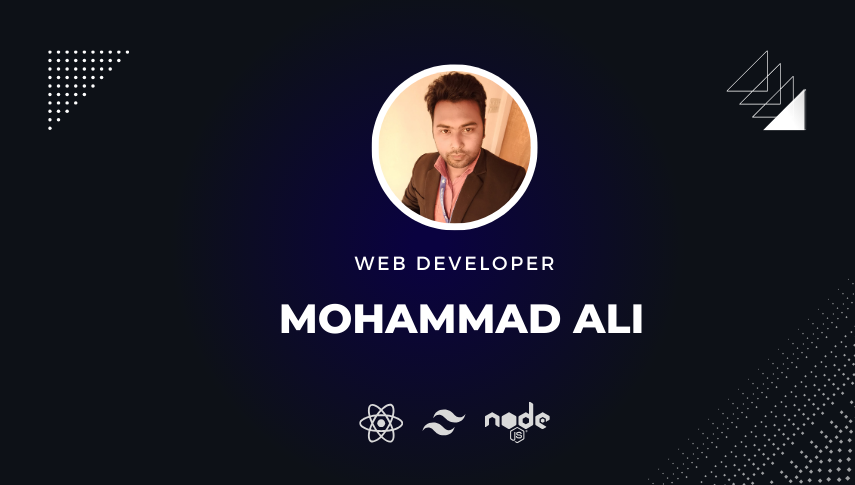
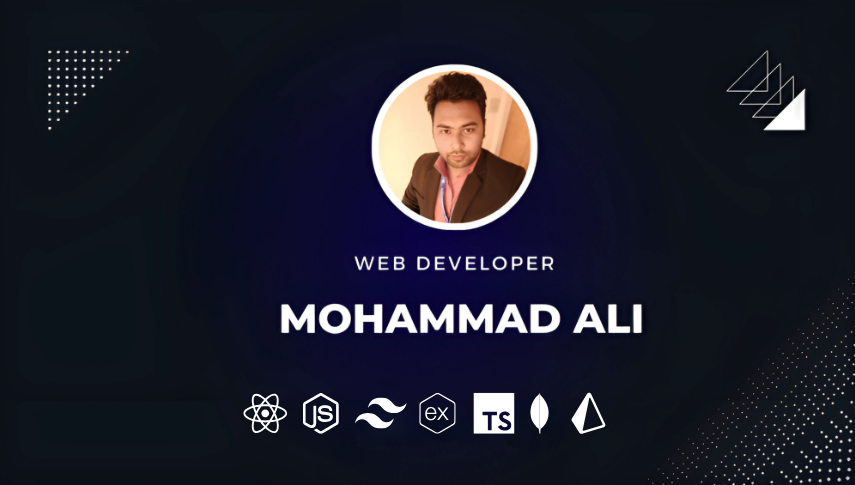
README.md file updated

diff --git a/README.md b/README.md
@@ -6,7 +6,6 @@
 
   <img width="100%" src="https://github-readme-streak-stats.herokuapp.com/?user=md-ali-0&background=0D1117&sideLabels=2F81F7&theme=dark&stroke=0D1117&fire=229A58&currStreakNum=229A58&ring=229A58&currStreakLabel=229A58&show_icons=true&hide_border=true&sideNums=2F81F7" />
 
-
 # 🌐 Connect with me:
 
 <div align="center">
@@ -29,55 +28,78 @@
 <table>
   <tr>
     <td align="center" width="96">
-  <img src="https://skillicons.dev/icons?i=react" width="48" height="48" alt="react logo"  />
+      <img src="https://skillicons.dev/icons?i=react" width="48" height="48" alt="react logo" />
       <br>React
     </td>
     <td align="center" width="96">
-    <img src="https://skillicons.dev/icons?i=javascript"
-    width="48" height="48" alt="javascript logo" />
-      <br>Javascript
+      <img src="https://skillicons.dev/icons?i=javascript" width="48" height="48" alt="javascript logo" />
+      <br>JavaScript
     </td>
     <td align="center" width="96">
-    <img src="https://skillicons.dev/icons?i=typescript" width="48" height="48" alt="typescript logo"  />
+      <img src="https://skillicons.dev/icons?i=typescript" width="48" height="48" alt="typescript logo" />
       <br>TypeScript
     </td>
     <td align="center" width="96">
-    <img src="https://skillicons.dev/icons?i=nodejs" width="48" height="48" alt="nodejs logo"  />
-      <br>Nodejs
+      <img src="https://skillicons.dev/icons?i=nodejs" width="48" height="48" alt="nodejs logo" />
+      <br>Node.js
     </td>
     <td align="center" width="96">
-    <img src="https://skillicons.dev/icons?i=express" width="48" height="48" alt="express logo"  />
+      <img src="https://skillicons.dev/icons?i=express" width="48" height="48" alt="express logo" />
       <br>Express
     </td>
     <td align="center" width="96">
-    <img src="https://skillicons.dev/icons?i=tailwind" width="48" height="48" alt="tailwind logo"  />
+      <img src="https://skillicons.dev/icons?i=tailwind" width="48" height="48" alt="tailwind logo" />
       <br>Tailwind
     </td>
     <td align="center" width="96">
-    <img src="https://skillicons.dev/icons?i=mongodb" width="48" height="48" alt="mongodb logo"  />
-      <br>Mongodb
+      <img src="https://skillicons.dev/icons?i=bootstrap" width="48" height="48" alt="bootstrap logo" />
+      <br>Bootstrap
+    </td>
+  </tr>
+  <tr>
+    <td align="center" width="96">
+      <img src="https://skillicons.dev/icons?i=mongodb" width="48" height="48" alt="mongodb logo" />
+      <br>MongoDB
     </td>
     <td align="center" width="96">
-    <img src="https://skillicons.dev/icons?i=html" width="48" height="48" alt="html logo"  />
-      <br>HTML5
+      <img src="https://web.programming-hero.com/home/_next/static/media/Mongoose.js.db4c7187.svg" width="48" height="48" alt="mongoose logo" />
+      <br>Mongoose
     </td>
     <td align="center" width="96">
-    <img src="https://skillicons.dev/icons?i=css" width="48" height="48" alt="css logo"  />
-      <br>CSS3
+      <img src="https://skillicons.dev/icons?i=redux" width="48" height="48" alt="redux logo" />
+      <br>Redux
+    </td>
+    <td align="center" width="96">
+      <img src="https://skillicons.dev/icons?i=nextjs" width="48" height="48" alt="nextjs logo" />
+      <br>Next.js
+    </td>
+    <td align="center" width="96">
+      <img src="https://skillicons.dev/icons?i=mysql" width="48" height="48" alt="sql logo" />
+      <br>SQL
+    </td>
+    <td align="center" width="96">
+      <img src="https://skillicons.dev/icons?i=postgres" width="48" height="48" alt="postgres logo" />
+      <br>PostgreSQL
+    </td>
+    <td align="center" width="96">
+      <img src="https://skillicons.dev/icons?i=prisma" width="48" height="48" alt="prisma logo" />
+      <br>Prisma
     </td>
   </tr>
 </table>
 
-# 👤 About me:
+# 👤 About Me:
 
-- 👋 Front-end developer passionate about crafting user-centric web experiences.
-- 💻 Proficient in React.js, JavaScript, and Node.js.
-- 🌐 Skilled in building dynamic and interactive user interfaces.
-- 🚀 Excited about exploring new front-end technologies and frameworks.
-- 📚 Constantly learning and staying updated with industry trends.
+-   👋 Full-stack developer passionate about building scalable and user-centric web applications.
+-   💻 Proficient in React.js, Node.js, and modern JavaScript/TypeScript.
+-   🌐 Skilled in creating dynamic and interactive user interfaces as well as robust backend systems.
+-   🚀 Eager to explore emerging technologies and frameworks across the tech stack.
+-   📚 Continuously learning and growing with a focus on industry best practices.
+
+---
 
 ### What I'm Excited About
 
-- 🚀 Exploring new front-end technologies and frameworks.
-- 🌐 Contributing to open-source projects to foster community learning.
-- 📚 Continuous learning and staying updated with industry trends.
+-   🚀 Exploring cutting-edge technologies and frameworks for full-stack development.
+-   🌐 Contributing to open-source projects to support and grow the developer community.
+-   📚 Embracing continuous learning to stay ahead in the tech industry.
